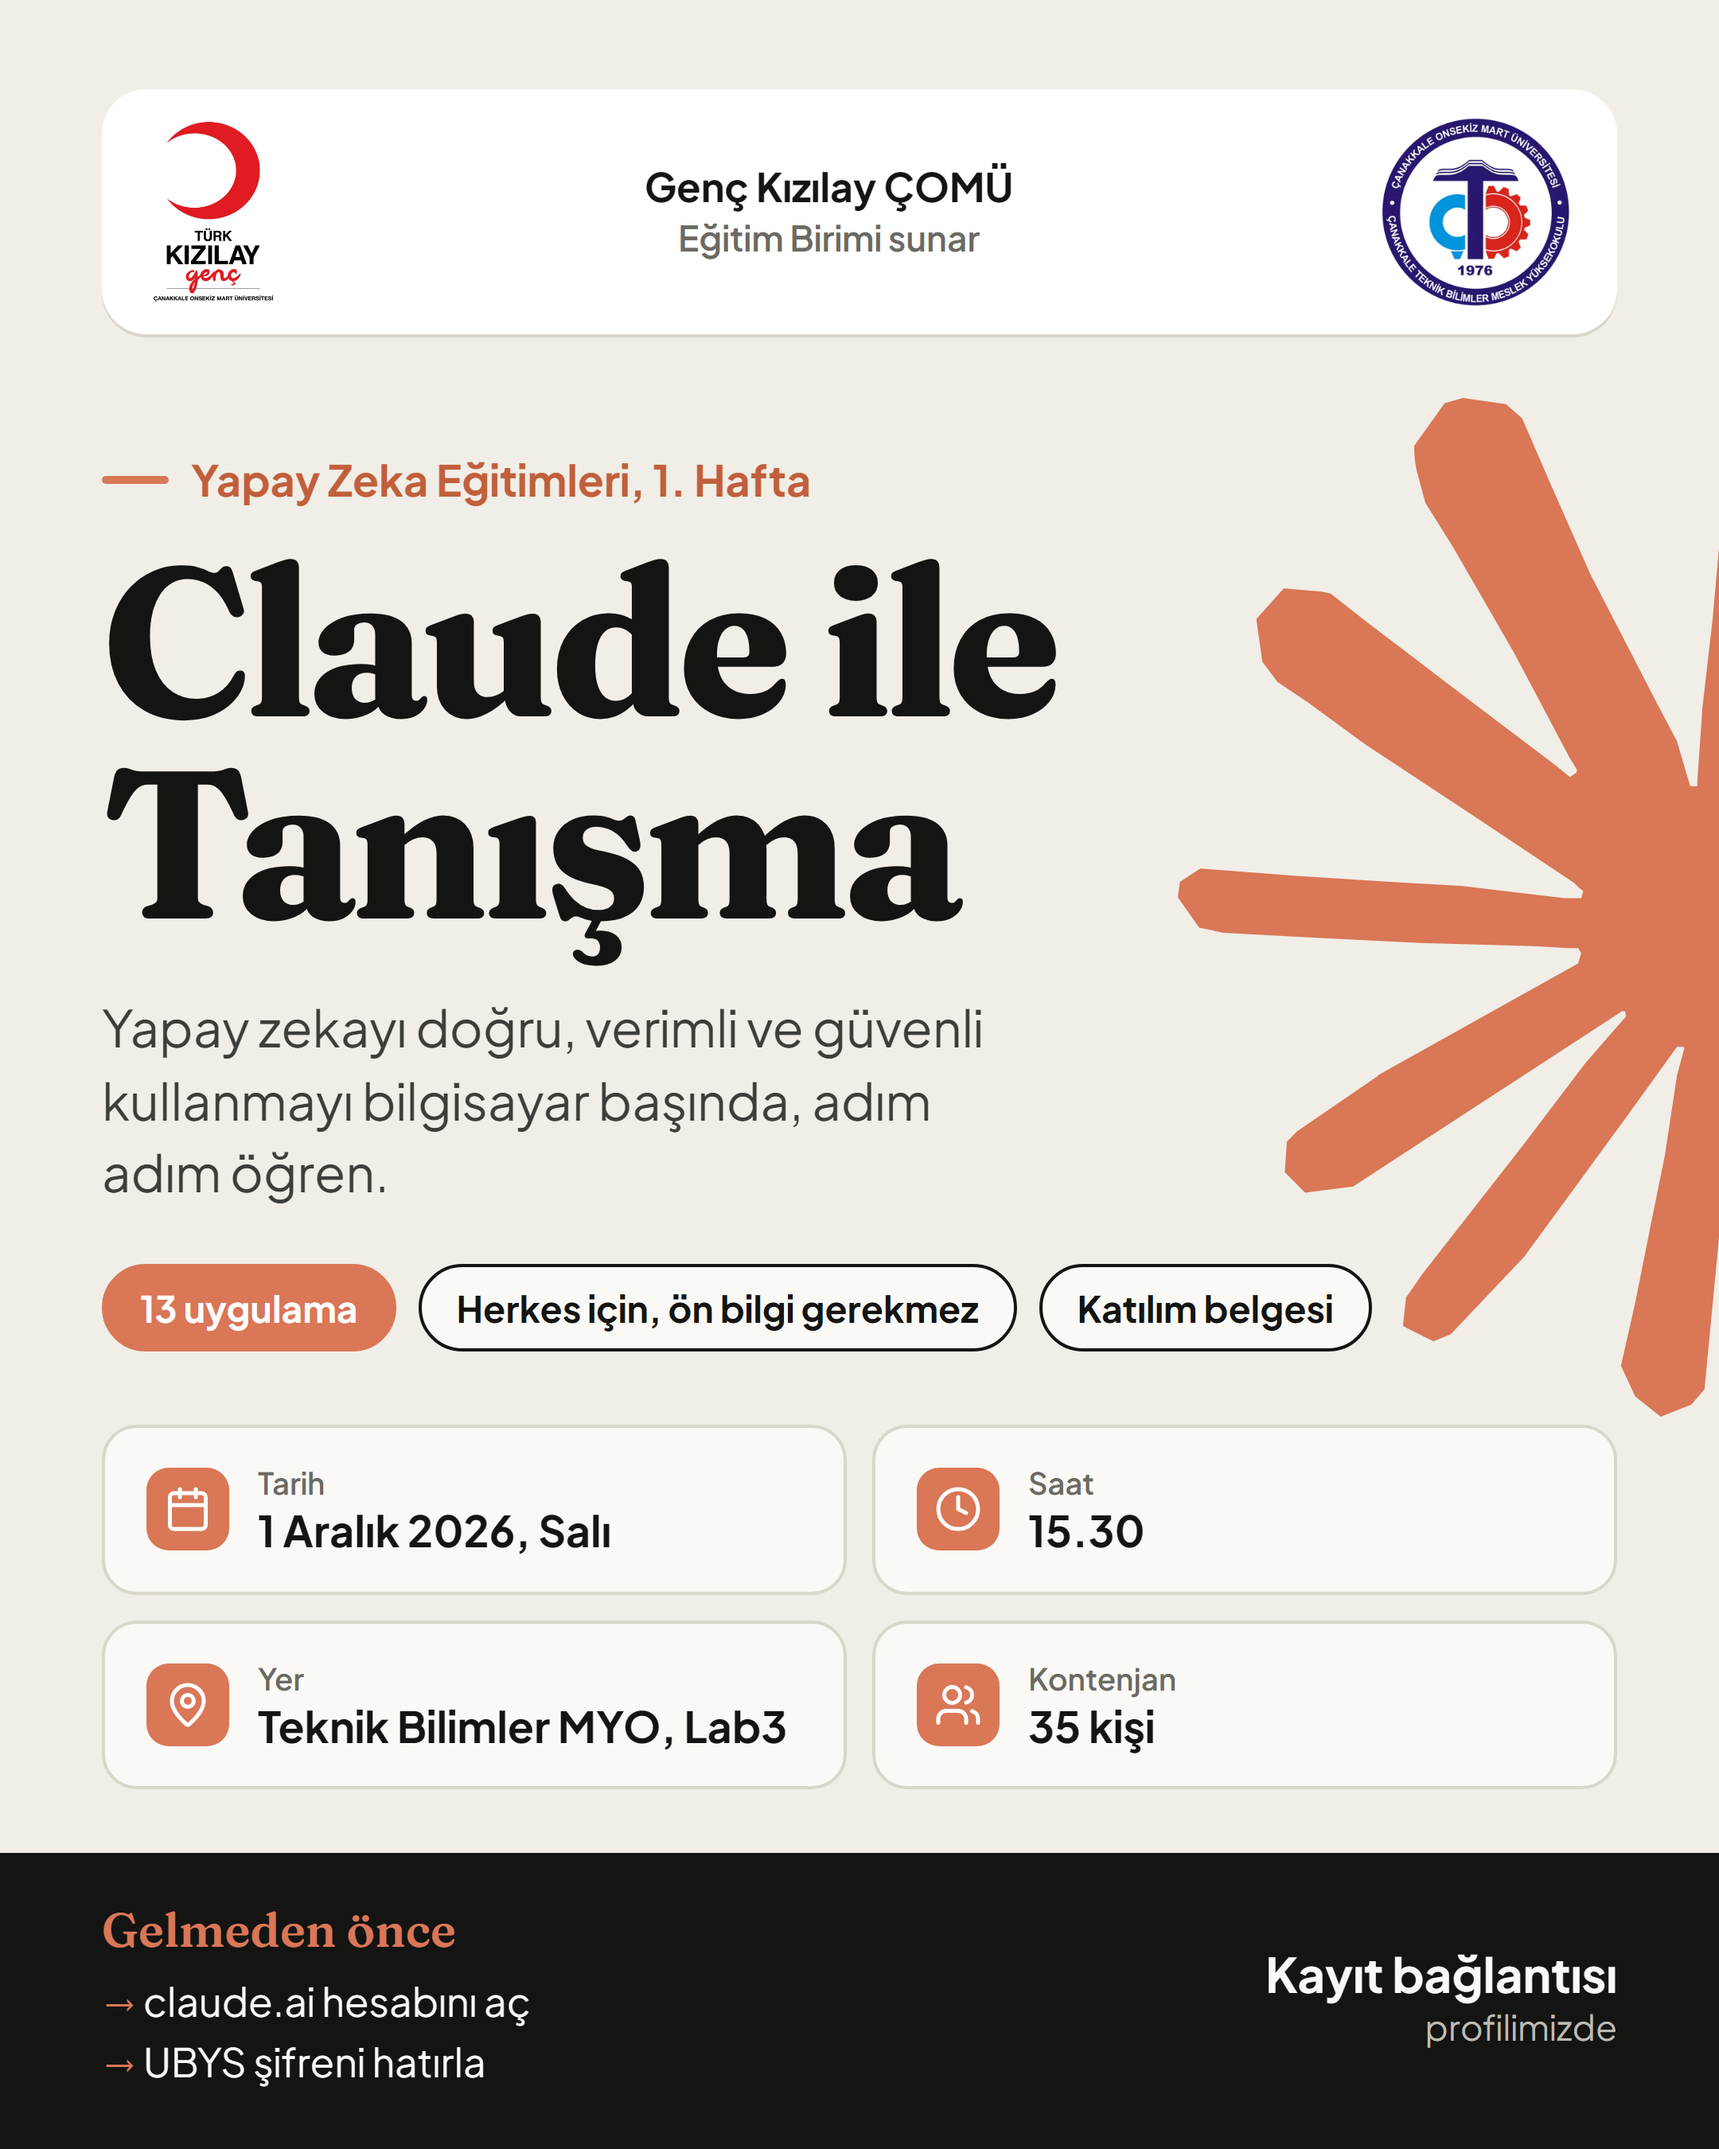
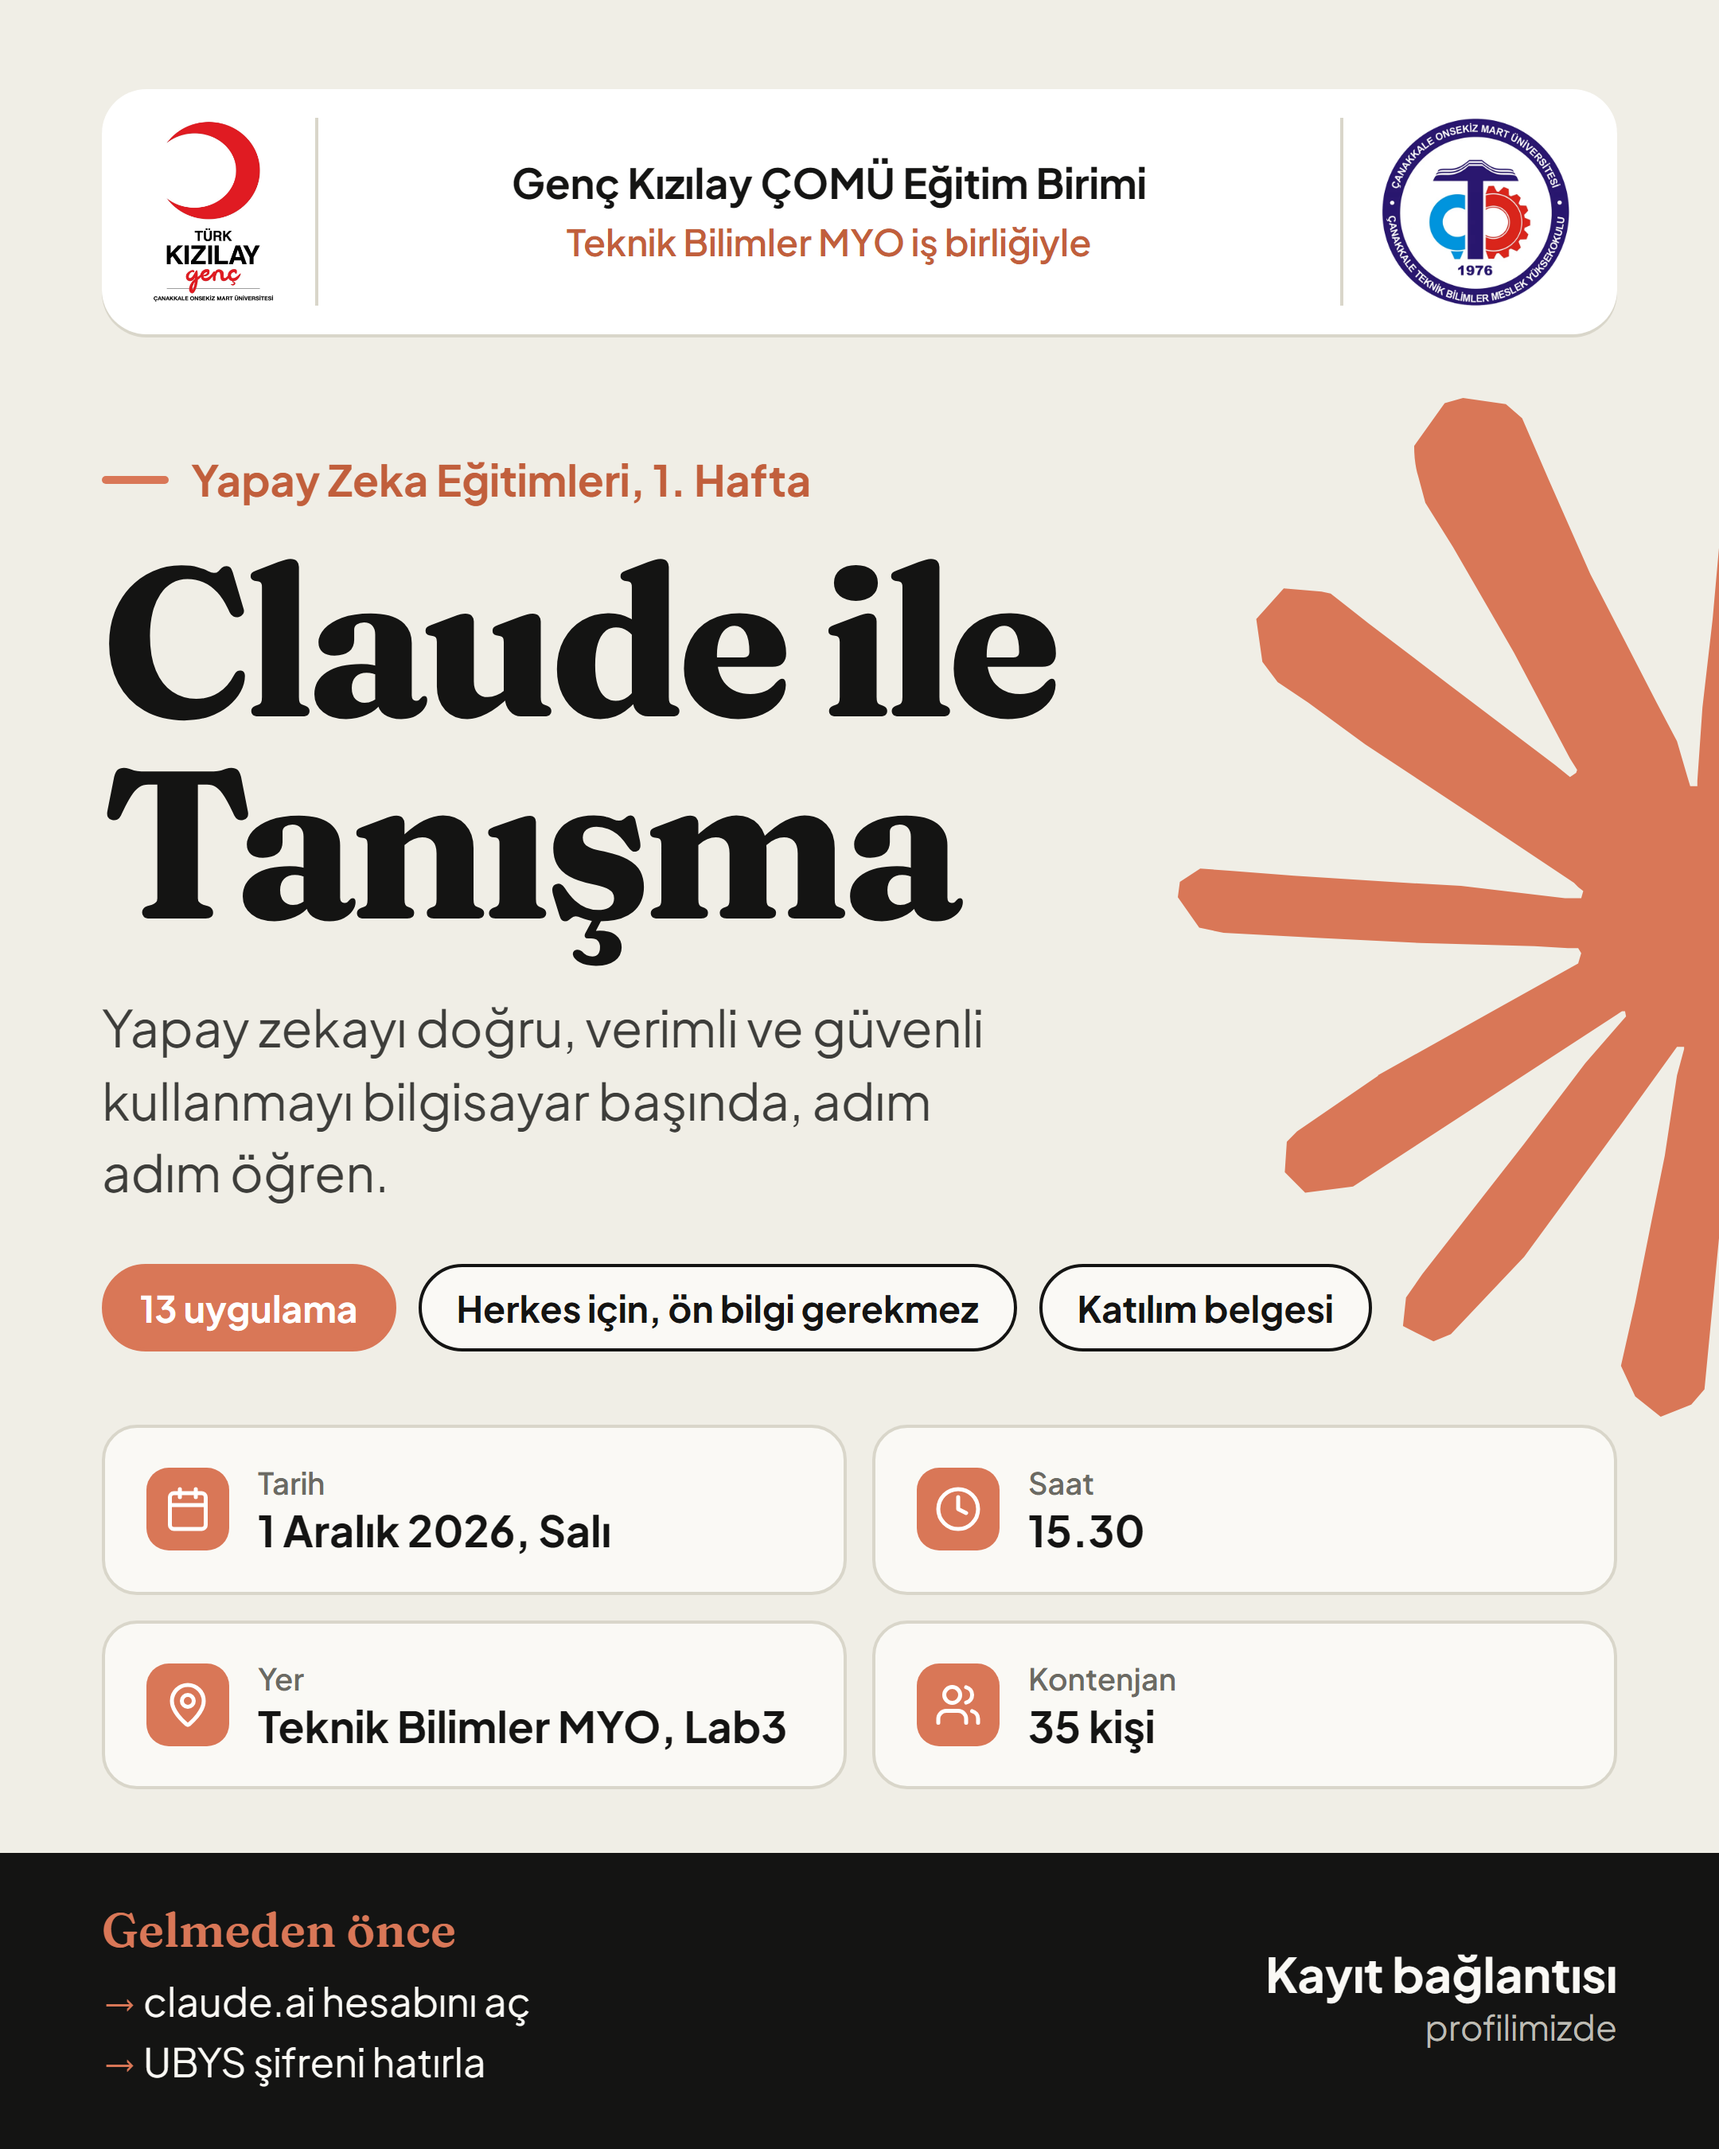
Afiş başlığı: Teknik Bilimler MYO iş birliği vurgusu

Changed region(s): [[0.3102, 0.0622, 0.6824, 0.1244]]

diff --git a/duyuru/afis/afis.html b/duyuru/afis/afis.html
@@ -31,8 +31,9 @@
     /* Logo şeridi */
     .logolar { position: relative; z-index: 2; display: flex; align-items: center; justify-content: space-between; gap: 24px; background: #fff; border-radius: 28px; padding: 18px 30px; box-shadow: 0 2px 0 var(--cizgi); }
     .logolar img { height: 118px; width: auto; display: block; }
-    .logolar p { font-size: 22px; line-height: 1.35; font-weight: 600; color: var(--gri); text-align: center; }
-    .logolar p strong { display: block; color: var(--koyu); font-size: 25px; }
+    .logolar p { flex: 1; align-self: stretch; display: flex; flex-direction: column; justify-content: center; gap: 6px; text-align: center; border-left: 2px solid var(--cizgi); border-right: 2px solid var(--cizgi); padding: 0 18px; }
+    .logolar p strong { color: var(--koyu); font-size: 26px; font-weight: 700; line-height: 1.25; }
+    .logolar p span { color: var(--turuncu-koyu); font-size: 23px; font-weight: 600; line-height: 1.25; }
 
     .govde { position: relative; z-index: 2; flex: 1; display: flex; flex-direction: column; padding-top: 74px; }
     body.hikaye .govde { padding-top: 150px; }
@@ -77,7 +78,7 @@
 
     <header class="logolar">
       <img src="../../gorseller/logolar/genc-kizilay-comu.png" alt="Türk Kızılay Genç Çanakkale Onsekiz Mart Üniversitesi logosu">
-      <p><strong>Genç Kızılay ÇOMÜ</strong>Eğitim Birimi sunar</p>
+      <p><strong>Genç Kızılay ÇOMÜ Eğitim Birimi</strong><span>Teknik Bilimler MYO iş birliğiyle</span></p>
       <img src="../../gorseller/logolar/tbmyo.png" alt="Çanakkale Teknik Bilimler MYO logosu">
     </header>
 
